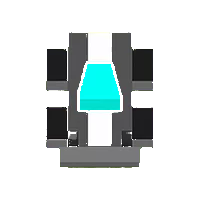
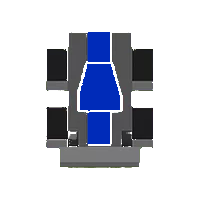
mudei nome carros

diff --git a/classes.py b/classes.py
@@ -18,7 +18,7 @@ class Player(pygame.sprite.Sprite):
         self.image = pygame.transform.scale(player_img, (58, 75))
         
         # Deixando transparente.
-        self.image.set_colorkey(BLACK)
+        self.image.set_colorkey(WHITE)
         
         # Detalhes sobre o posicionamento.
         self.rect = self.image.get_rect()
@@ -59,7 +59,7 @@ class Mob(pygame.sprite.Sprite):
         self.image = pygame.transform.scale(mob_img, (54, 70))
         
         # Deixando transparente.
-        self.image.set_colorkey(BLACK)
+        self.image.set_colorkey(WHITE)
         
         # Detalhes sobre o posicionamento.
         self.rect = self.image.get_rect()

diff --git a/agora_vai - Copia.py b/agora_vai - Copia.py
@@ -18,7 +18,7 @@ screen = pygame.display.set_mode((WIDTH, HEIGHT))
 def load_assets(img_dir, snd_dir, fnt_dir):
     assets = {}
     assets["player_img"] = pygame.image.load(path.join(img_dir, "Finally.png")).convert()
-    assets["mob_img"] = pygame.image.load(path.join(img_dir, "Finally.png")).convert()
+    assets["mob_img"] = pygame.image.load(path.join(img_dir, "inimigo.png")).convert()
     assets["laser_img"] = pygame.image.load(path.join(img_dir, "redlaser.png")).convert()
     assets["flocos_img"] = pygame.image.load(path.join(img_dir, "floco_de_neve.png")).convert()
     assets["flocos2_img"] = pygame.image.load(path.join(img_dir, "neve.png")).convert()

diff --git a/agora_vai.py b/agora_vai.py
@@ -18,7 +18,7 @@ screen = pygame.display.set_mode((WIDTH, HEIGHT))
 def load_assets(img_dir, snd_dir, fnt_dir):
     assets = {}
     assets["player_img"] = pygame.image.load(path.join(img_dir, "Finally.png")).convert()
-    assets["mob_img"] = pygame.image.load(path.join(img_dir, "Finally.png")).convert()
+    assets["mob_img"] = pygame.image.load(path.join(img_dir, "inimigo.png")).convert()
     assets["laser_img"] = pygame.image.load(path.join(img_dir, "redlaser.png")).convert()
     assets["flocos_img"] = pygame.image.load(path.join(img_dir, "floco_de_neve.png")).convert()
     assets["flocos2_img"] = pygame.image.load(path.join(img_dir, "neve.png")).convert()
